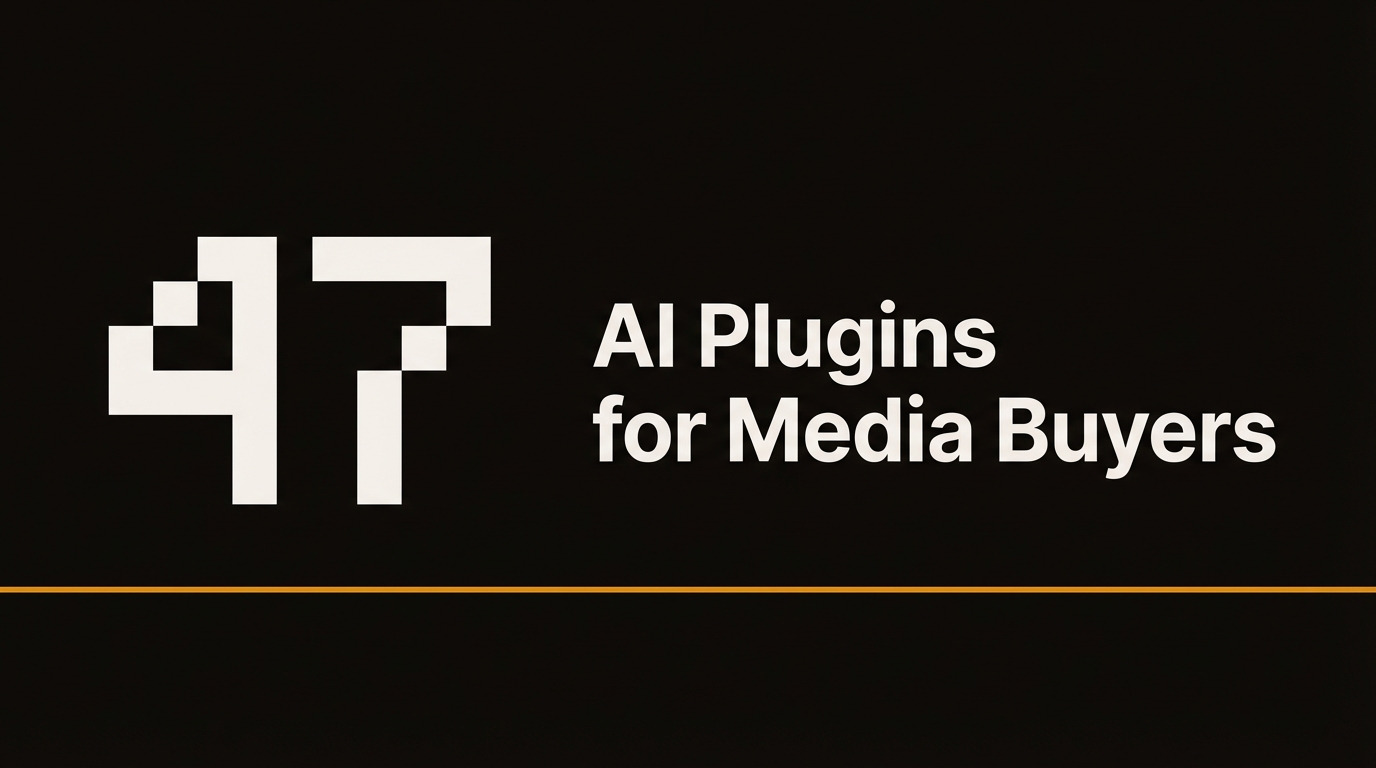
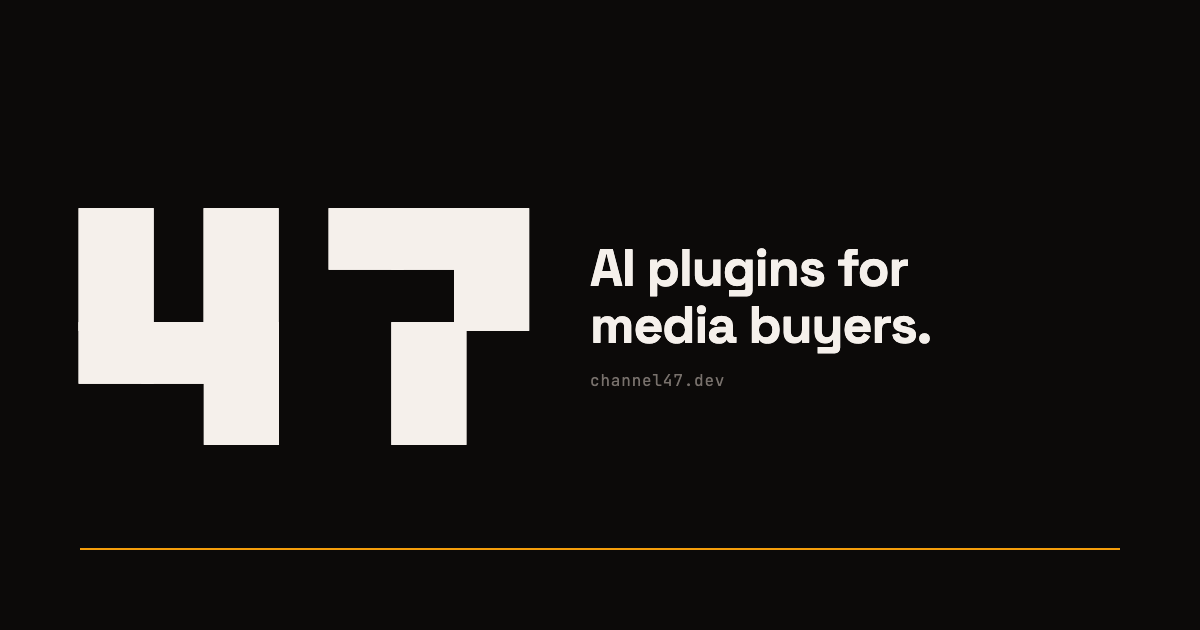
review pass: OG image, copy, backend cleanup
Replace AI-generated OG image with code-rendered version using exact
brand fonts (Space Grotesk, JetBrains Mono) and colors.

Copy fixes from review:
- what-is-a-plugin CTA: outcome framing instead of repeating install
- skill-remix CTA: connect to the story instead of vague "one of these"
- 404 spacing: mb-8 → mb-12 to match other void pages
- subscribe button: "Subscribe" → "Get Build Notes" for consistency
- coming-soon body: replace cliche with specific copy

Backend fixes from review:
- subscribe.ts: type safety (any → unknown), deduplicate URL constant
- rss.xml.ts: remove no-op .replace(/\.md$/, '')
- nav-scroll.ts: remove unnecessary non-null assertions

Changed region(s): [[0.0617, 0.3016, 0.925, 0.7238], [0.0, 0.754, 1.0, 0.7841], [0.0925, 0.8444, 0.925, 0.8746]]

diff --git a/src/pages/api/subscribe.ts b/src/pages/api/subscribe.ts
@@ -260,8 +260,6 @@ export const POST: APIRoute = async ({ request }) => {
 
   // Call Kit API with timeout
   try {
-    const kitEndpoint = 'https://api.kit.com/v4/subscribers';
-
     // Create abort controller for timeout
     const controller = new AbortController();
     const timeoutId = setTimeout(() => controller.abort(), REQUEST_TIMEOUT_MS);
@@ -284,10 +282,10 @@ export const POST: APIRoute = async ({ request }) => {
     payload.fields = kitFields;
 
     let response: Response;
-    let data: any;
+    let data: { errors?: string[] };
 
     try {
-      response = await fetch(kitEndpoint, {
+      response = await fetch(`${KIT_BASE}/subscribers`, {
         method: 'POST',
         headers: {
           'X-Kit-Api-Key': API_KEY,
@@ -299,11 +297,11 @@ export const POST: APIRoute = async ({ request }) => {
 
       clearTimeout(timeoutId);
       data = await response.json();
-    } catch (fetchError: any) {
+    } catch (fetchError: unknown) {
       clearTimeout(timeoutId);
 
       // Handle timeout
-      if (fetchError.name === 'AbortError') {
+      if ((fetchError as { name?: string })?.name === 'AbortError') {
         console.error('Kit API timeout');
         return createResponse(
           {
@@ -323,7 +321,7 @@ export const POST: APIRoute = async ({ request }) => {
       // Handle specific error cases
       // Kit returns { errors: string[] } for validation errors
       if (response.status === 400 || response.status === 422) {
-        const errorMessage = Array.isArray(data.errors)
+        const errorMessage = Array.isArray(data.errors) && data.errors.length > 0
           ? data.errors[0]
           : 'Invalid subscription data';
         return createResponse(
@@ -361,7 +359,7 @@ export const POST: APIRoute = async ({ request }) => {
       200
     );
 
-  } catch (error: any) {
+  } catch (error: unknown) {
     console.error('Subscription error:', error);
 
     // Don't expose internal error details

diff --git a/src/scripts/nav-scroll.ts b/src/scripts/nav-scroll.ts
@@ -17,7 +17,7 @@ export function initNavScroll(): void {
 
     // Always show at top
     if (currentY <= 0) {
-      nav!.classList.remove('nav--hidden');
+      nav.classList.remove('nav--hidden');
       lastY = currentY;
       return;
     }
@@ -27,10 +27,10 @@ export function initNavScroll(): void {
 
     if (delta > 0) {
       // Scrolling down — hide
-      nav!.classList.add('nav--hidden');
+      nav.classList.add('nav--hidden');
     } else {
       // Scrolling up — show
-      nav!.classList.remove('nav--hidden');
+      nav.classList.remove('nav--hidden');
     }
 
     lastY = currentY;

diff --git a/src/pages/rss.xml.ts b/src/pages/rss.xml.ts
@@ -14,7 +14,7 @@ export async function GET(context: APIContext) {
       title: note.data.title,
       description: note.data.description,
       pubDate: note.data.date,
-      link: `/notes/${note.id.replace(/\.md$/, '')}/`,
+      link: `/notes/${note.id}/`,
       author: 'Jackson Dean',
     })),
     customData: '<language>en-us</language>',

diff --git a/src/content/notes/what-is-a-plugin.md b/src/content/notes/what-is-a-plugin.md
@@ -64,7 +64,7 @@ You'll need API keys for the ad platforms you want to connect. The plugin's setu
 
 <aside class="note-cta">
 <p class="note-cta__label">TRY IT</p>
-<p class="note-cta__text"><a href="/plugins/paid-search">Install the paid-search plugin</a> — six skills, two platforms, one command.</p>
+<p class="note-cta__text">The Waste Detector alone caught ~$3K/month in two accounts. <a href="/plugins/paid-search">See what it finds in yours</a>.</p>
 </aside>
 
 ## Why this matters

diff --git a/src/content/notes/skill-remix-with-chris.md b/src/content/notes/skill-remix-with-chris.md
@@ -36,7 +36,7 @@ Chris isn't a developer. I'm barely one. We just had a clear picture of what we 
 
 <aside class="note-cta">
 <p class="note-cta__label">BUILD NOTES</p>
-<p class="note-cta__text">I send one of these a week. <a href="/subscribe">Subscribe</a></p>
+<p class="note-cta__text">I document sessions like this every week — what we built, what broke, what we'd do differently. <a href="/subscribe">Subscribe</a>.</p>
 </aside>
 
 ## Try it
